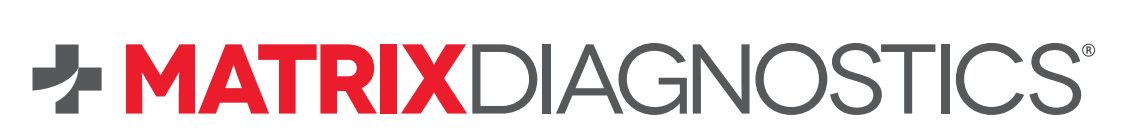
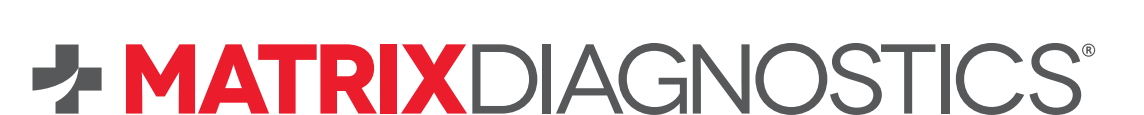
renamed matrixdiagnostics image

Changed region(s): [[0.0306, 0.287, 0.979, 1.0]]

diff --git a/index.html b/index.html
@@ -260,7 +260,7 @@
             </div>
             
             <div class="questions">
-              <p class="fade-in" >Any questions? Call <a href="tel:+441992762678" class="phone">+44 (0) 1992 762 678</a> or check out: <a href="https://www.matrixdiagnostics.co.uk/" target="_blank"><img class="website" src="img/details/matrixdiagnostics2.png" alt=""></a></p>
+              <p class="fade-in" >Any questions? Call <a href="tel:+441992762678" class="phone">+44 (0) 1992 762 678</a> or check out: <a href="https://www.matrixdiagnostics.co.uk/" target="_blank"><img class="website" src="img/details/matrixdiagnostics.png" alt=""></a></p>
             </div>
 
             <div class="button fade-in">
